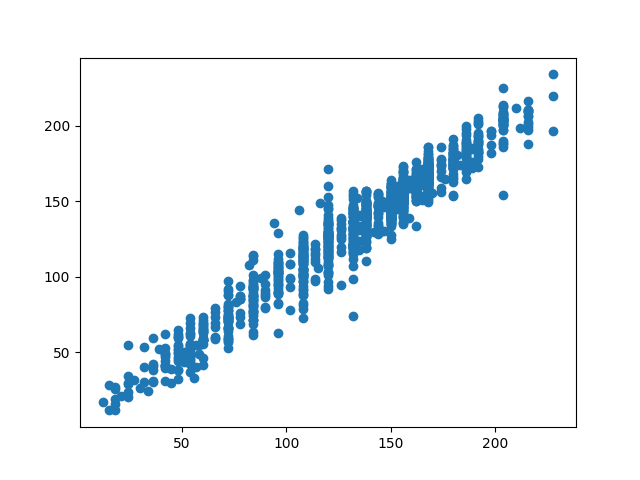
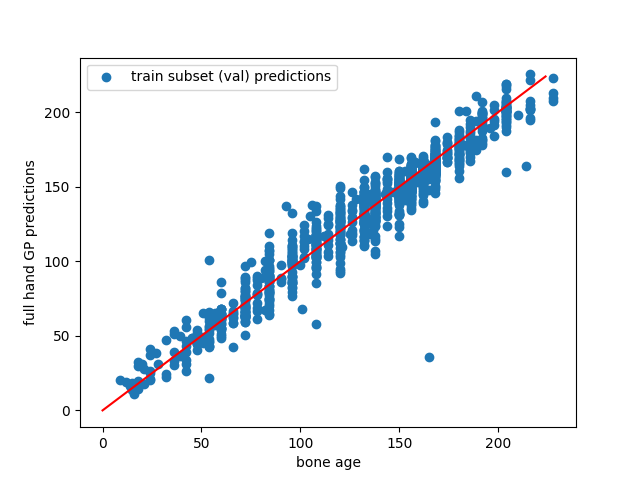
Inception working now!

diff --git a/fullhand_model_lghtng.py b/fullhand_model_lghtng.py
@@ -3,6 +3,7 @@ import pytorch_lightning as pl
 from torchvision.models import resnet50, ResNet50_Weights
 from torchvision.models import resnet152, ResNet152_Weights
 from torchvision.models import inception_v3, Inception_V3_Weights
+from torchvision.models import wide_resnet50_2, Wide_ResNet50_2_Weights
 
 def squared_epsilon_insensitive_loss(y_hat, y, epsilon):
     """
@@ -24,13 +25,13 @@ class ResNet50(pl.LightningModule):
         super().__init__()
 
         self.epsilon = epsilon
-
-        self.resnet = resnet50(weights=ResNet50_Weights.DEFAULT)
-        num_features = self.resnet.fc.in_features
-        self.resnet.fc = torch.nn.Linear(num_features, 1)
-        # self.resnet = resnet152(weights=ResNet152_Weights.DEFAULT) # which resnet to use?
+        #
+        # self.resnet = resnet50(weights=ResNet50_Weights.DEFAULT)
         # num_features = self.resnet.fc.in_features
         # self.resnet.fc = torch.nn.Linear(num_features, 1)
+        self.resnet = wide_resnet50_2(weights=Wide_ResNet50_2_Weights) # use wide resnet
+        num_features = self.resnet.fc.in_features
+        self.resnet.fc = torch.nn.Linear(num_features, 1)
 
 
     def forward(self, x):
@@ -39,26 +40,37 @@ class ResNet50(pl.LightningModule):
     def training_step(self, batch, batch_idx):
         x, y = batch
         logits = self(x)
-        loss = squared_epsilon_insensitive_loss(logits, y, self.epsilon)
-        # loss = torch.nn.functional.mse_loss(logits, y.float().unsqueeze(1))
-        self.log("train_loss", loss)
-        return loss
+        # loss = squared_epsilon_insensitive_loss(logits, y, self.epsilon)
+        loss = torch.nn.functional.mse_loss(logits, y.float().unsqueeze(1))
+
+        tensorboard_logs = {'ttrain_loss': loss}
+        return {'loss': loss, 'log': tensorboard_logs}
+        # self.log("train_loss", loss, prog_bar=True)
+        # return loss
 
     def validation_step(self, batch, batch_idx):
         x, y = batch
         logits = self(x)
         loss = torch.nn.functional.l1_loss(logits, y.float().unsqueeze(1))
-        self.log("val_loss", loss)
-        return {"val_loss": loss, "val_preds": logits}
+
+        tensorboard_logs = {'tval_loss': loss}
+        return {'val_loss': loss, 'log': tensorboard_logs}
+
+        #
+        # self.log("val_loss", loss, prog_bar=True)
+        # return {"val_loss": loss, "val_preds": logits}
 
     def validation_epoch_end(self, outputs):
         val_loss_mean = torch.stack([x["val_loss"] for x in outputs]).mean()
-        preds = torch.cat([x["val_preds"] for x in outputs], dim=0)
-        self.logger.experiment.add_scalar(
-            "val_loss_epoch", val_loss_mean, self.current_epoch
-        )
-        self.log("val_loss", val_loss_mean, prog_bar=True)
-        return {"val_loss": val_loss_mean, "val_preds": preds}
+
+        tensorboard_logs = {'tavg_val_loss': val_loss_mean}
+        return {'val_loss': val_loss_mean, 'log': tensorboard_logs}
+        # preds = torch.cat([x["val_preds"] for x in outputs], dim=0)
+        # self.logger.experiment.add_scalar(
+        #     "val_loss_epoch", val_loss_mean, self.current_epoch
+        # )
+        # self.log("val_loss", val_loss_mean, prog_bar=True)
+        # return {"val_loss": val_loss_mean, "val_preds": preds}
 
     def configure_optimizers(self):
         # optimizer = torch.optim.Adam(self.parameters(), lr=1e-3)

diff --git a/fullhand_training_lghtng.py b/fullhand_training_lghtng.py
@@ -3,7 +3,7 @@ import torchvision
 import torchvision.transforms as transforms
 from PIL import Image
 from torch.utils.data import Dataset
-from torch.utils.data import DataLoader
+from torch.utils.data import DataLoader, WeightedRandomSampler, RandomSampler
 import pandas as pd
 import os
 from torchvision import models
@@ -23,16 +23,12 @@ from pytorch_lightning.callbacks import LearningRateMonitor
 # from torch.utils.tensorboard import SummaryWriter
 
 from customdataset import CustomDataset
-# from fullhand_model_lghtng import ResNet50
+from fullhand_model_lghtng import ResNet50
 from fullhand_model_inception_lghtng import Inception
 
 # define path to the folder and csv file
 img_folder_path = "./data/fh_train"
 csv_file_path = "./data/train.csv"
-
-# # define transformations to be applied to images
-# weights = ResNet50_Weights.DEFAULT
-# preprocess = weights.transforms()
 
 transform = transforms.Compose(
     [
@@ -55,6 +51,32 @@ train_dataset, val_dataset = torch.utils.data.random_split(
     full_dataset, [train_size, val_size]
 )
 
+# # Construct a weighted random sampler
+#
+# # Extract the labels from the dataset
+# labels = np.array([label for _, label in train_dataset])
+# labels = np.round(labels).astype(np.int64)
+# num_classes = len(np.unique(labels))
+#
+# # Compute the class weights
+# class_counts = np.bincount(labels, minlength=num_classes)  # Add a small constant to avoid divide by zero
+# class_weights = 1.0 / class_counts
+#
+# # Create a mapping from label to index in class_weights
+# label_to_idx = {label: i for i, label in enumerate(np.unique(labels))}
+#
+# # Compute the sample weights
+# sample_weights = []
+# for label in labels:
+#     sample_weights.append(class_weights[label_to_idx[label]])
+#
+# # Convert class_weights and sample_weights to PyTorch tensors
+# class_weights = torch.tensor(class_weights, dtype=torch.float32)
+# sample_weights = torch.tensor(sample_weights, dtype=torch.int64)
+#
+# # Create the WeightedRandomSampler instance
+# sampler = WeightedRandomSampler(sample_weights, len(train_dataset), replacement=True)
+
 # create dataloader for the dataset
 batch_size = 64
 train_loader = DataLoader(
@@ -74,12 +96,6 @@ print(f"Std of {batch_size} images:", std)
 
 # show an image
 for batch_idx, (data, label) in enumerate(train_loader):
-    # data shape: (batch_size, channels, height, width)
-    # label shape: (batch_size, )
-
-    # show the first image in the batch
-    # print(data[0].dtype)
-    # print(data[1].dtype)
     img = data[0]
     img = transforms.ToPILImage()(img)
     img.show()
@@ -105,8 +121,8 @@ model = Inception()
 trainer = pl.Trainer(
     accelerator="gpu",
     devices=1,
-    max_epochs=5,
-    logger=pl.loggers.TensorBoardLogger("lightning_logs/", name="regression_inception"),
+    max_epochs=3,
+    logger=pl.loggers.TensorBoardLogger("lightning_logs/", name="regression"),
     log_every_n_steps=25,
     fast_dev_run=False,
 )
@@ -130,6 +146,10 @@ val_labels = []
 for _, labels in val_dataset:
     val_labels.append(labels)
 val_array = np.array(val_labels, dtype=np.float32)
-plt.scatter(val_array, predictions)
+plt.scatter(val_array, predictions, label="train subset (val) predictions")
+plt.plot([0, 224], [0, 224], color='red')
+plt.xlabel('bone age')
+plt.ylabel('full hand GP predictions')
+plt.legend()
 plt.show()
 

diff --git a/fullhand_model_inception_lghtng.py b/fullhand_model_inception_lghtng.py
@@ -13,9 +13,37 @@ class Inception(pl.LightningModule):
         num_features = self.inception.fc.in_features
         self.inception.fc = torch.nn.Linear(num_features, 1)
 
+    # def sample_uniformly(self, y):
+    #     labels = np.unique(y)
+    #     label_weights = np.ones(len(labels))
+    #     label_weights /= label_weights.sum()
+    #     label_idx = np.random.choice(len(labels), p=label_weights)
+    #     label = labels[label_idx]
+    #     idx = np.where(y == label)[0]
+    #     idx_sampled = np.random.choice(idx)
+    #     return label, idx_sampled
+
     def forward(self, x):
         logits = self.inception(x)
         return logits
+
+    # def training_step(self, batch, batch_idx):
+    #     x, y = batch
+    #     batch_size = len(y)
+    #     labels = []
+    #     idxs_sampled = []
+    #     for i in range(batch_size):
+    #         label, idx_sampled = self.sample_uniformly(y.numpy())
+    #         labels.append(label)
+    #         idxs_sampled.append(idx_sampled)
+    #     x_sampled = x[idxs_sampled]
+    #     y_sampled = torch.tensor(labels).unsqueeze(1)
+    #     logits = self(x_sampled)
+    #     loss = torch.nn.functional.cross_entropy(logits, y_sampled)
+    #     self.log('train_loss', loss)
+    #     # return loss
+    #     tensorboard_logs = {'t_train_loss': loss}
+    #     return {'loss': loss, 'log': tensorboard_logs}
 
     def training_step(self, batch, batch_idx):
         x, y = batch
@@ -23,7 +51,9 @@ class Inception(pl.LightningModule):
         y = y.unsqueeze(1)
         loss = F.mse_loss(logits, y)
         self.log('train_loss', loss)
-        return loss
+        # return loss
+        tensorboard_logs = {'t_train_loss': loss}
+        return {'loss': loss, 'log': tensorboard_logs}
 
     def validation_step(self, batch, batch_idx):
         x, y = batch
@@ -31,7 +61,11 @@ class Inception(pl.LightningModule):
         y = y.unsqueeze(1)
         loss = F.l1_loss(logits, y)
         self.log('val_loss', loss)
-        return loss
+        # return loss
+
+        tensorboard_logs = {'t_val_loss': loss}
+        return {'val_loss': loss, 'log': tensorboard_logs}
+
 
     # def validation_epoch_end(self, outputs):
     #     # Assuming outputs is a list of dictionaries with a 'val_loss' key

diff --git a/customdataset.py b/customdataset.py
@@ -31,7 +31,7 @@ class CustomDataset(Dataset):
         img_path = os.path.join(self.img_folder_path, str(img_name) + ".png")
         label = self.df.iloc[idx]["boneage"]
         label = label.astype(np.float32)
-        label.dtype
+        # label.dtype
 
         img = Image.open(img_path).convert("RGB")
         # tensor_img = torch.Tensor(img)
